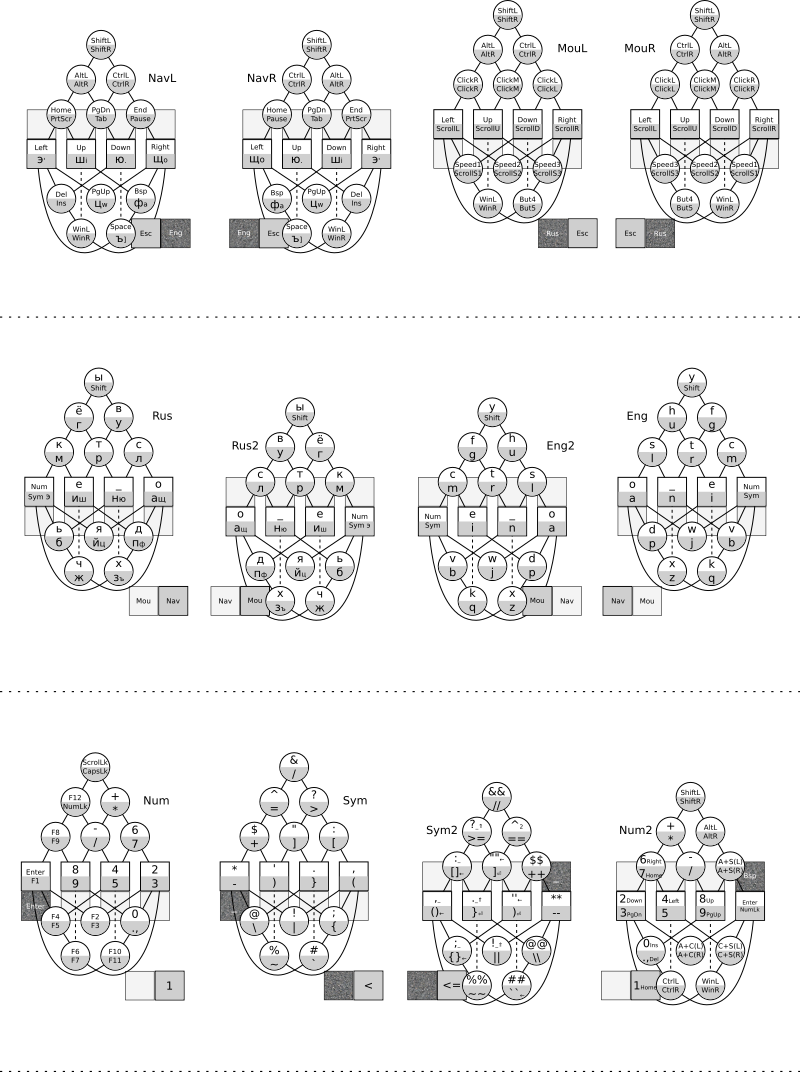
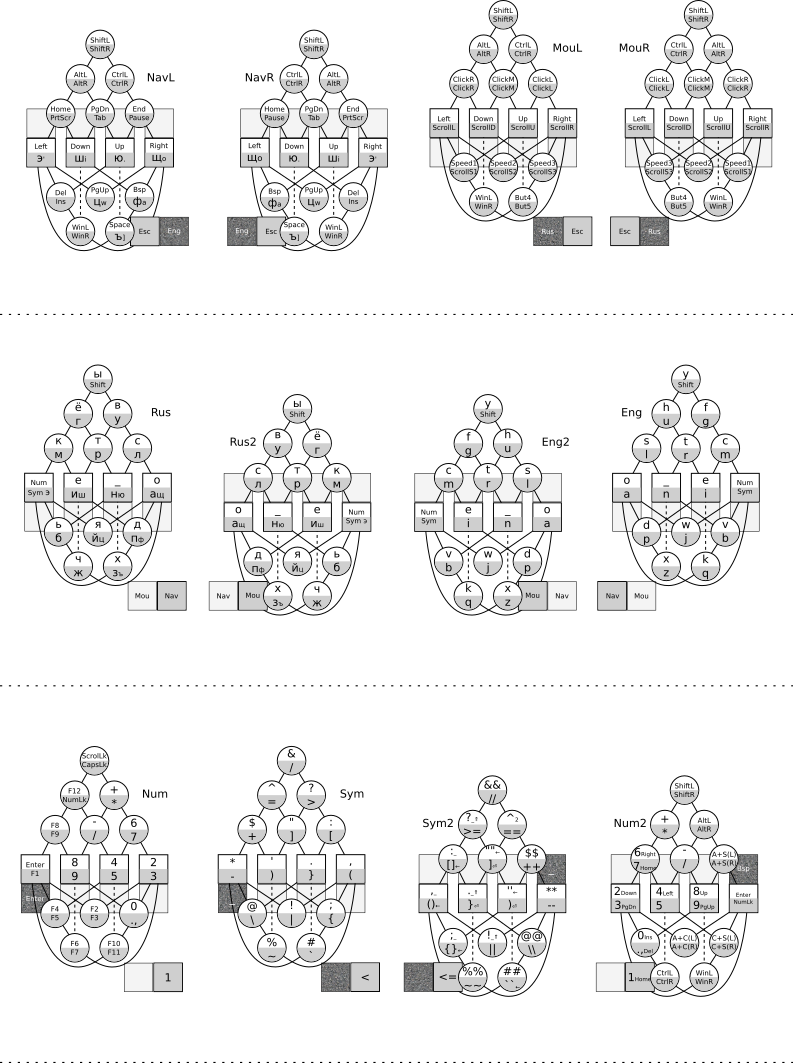
firmware 0.2

diff --git a/firmware/kladenets2.c b/firmware/kladenets2.c
@@ -1,7 +1,7 @@
 /*
 * Project: Chord keyboard Kladenets-2
-* Version: 0.1 (pre-pre alpha)
-* Date: 2019-06-08
+* Version: 0.2 (pre alpha)
+* Date: 2019-06-09
 * Author: Vladimir Romanovich <ibnteo@gmail.com>
 * License: MIT
 * https://github.com/ibnteo/kladenets
@@ -26,7 +26,7 @@ void Ports_Init() {
 	DDRC  |= 0b01110000; // C4,C5,C6
 	PORTC |= 0b01110000;
 	DDRD  |= 0b01100011; // D0,D1,D5, D6(Led)
-	PORTD |= 0b01100011; // LED Off
+	PORTD |= 0b01100011; // + LED Off
 
 	// Init rows (PullUp)
 	DDRB &= ~0b00010010; // B1,B4
@@ -226,15 +226,15 @@ void EVENT_USB_Device_StartOfFrame(void)
 #define KEYBOARD_MOD 0x00
 
 #define LAYER1 0
-#define LAYER_NUM1 1
-#define LAYER_NUM2 2
-#define LAYER_NAV 3
-#define LAYER_MOU 4
-#define LAYER_SYM1 5
-#define LAYER_SYM2 6
-#define LAYER2 7
+#define LAYER2 1
+#define LAYER_NUM1 2
+#define LAYER_NUM2 3
+#define LAYER_NAV 4
+#define LAYER_MOU 5
+#define LAYER_SYM1 6
+#define LAYER_SYM2 7
 
-uint8_t Layers[4][31] = {
+uint8_t Layers[5][31] = {
 	{ // Lay1
 		KEYBOARD_LAYER,				// 0000 1 Nav
 		HID_KEYBOARD_SC_O,			// 0001 0
@@ -267,6 +267,49 @@ uint8_t Layers[4][31] = {
 		HID_KEYBOARD_SC_G,			// 1110 1
 		HID_KEYBOARD_SC_Y,			// 1111 0
 		HID_KEYBOARD_SC_LEFT_SHIFT	// 1111 1 Shift
+	},
+	{ // Lay2
+		/*
+		qwertyuiop[]
+		йцукенгшщзхъ
+
+		asdfghjkl;'
+		фывапролджэ
+
+		zxcvbnm,./
+		ячсмитьбю.
+		*/
+		KEYBOARD_LAYER,												// 0000 1 Nav
+		HID_KEYBOARD_SC_J,											// 0001 0
+		HID_KEYBOARD_SC_F,											// 0001 1
+		HID_KEYBOARD_SC_SPACE,										// 0010 0
+		HID_KEYBOARD_SC_Y,											// 0010 1
+		HID_KEYBOARD_SC_C,											// 0011 0
+		HID_KEYBOARD_SC_K,											// 0011 1
+		HID_KEYBOARD_SC_T,											// 0100 0
+		HID_KEYBOARD_SC_B,											// 0100 1
+		HID_KEYBOARD_SC_L,											// 0101 0
+		HID_KEYBOARD_SC_G,											// 0101 1
+		HID_KEYBOARD_SC_N,											// 0110 0
+		HID_KEYBOARD_SC_H,											// 0110 1
+		HID_KEYBOARD_SC_D,											// 0111 0
+		HID_KEYBOARD_SC_E,											// 0111 1
+		KEYBOARD_LAYER,												// 1000 0 Num
+		KEYBOARD_LAYER,												// 1000 1 Sym
+		HID_KEYBOARD_SC_Z,											// 1001 0
+		HID_KEYBOARD_SC_Q,											// 1001 1
+		HID_KEYBOARD_SC_M,											// 1010 0
+		HID_KEYBOARD_SC_COMMA_AND_LESS_THAN_SIGN,				// 1010 1
+		HID_KEYBOARD_SC_X,											// 1011 0
+		HID_KEYBOARD_SC_SEMICOLON_AND_COLON,					// 1011 1
+		HID_KEYBOARD_SC_R,											// 1100 0
+		HID_KEYBOARD_SC_V,											// 1100 1
+		HID_KEYBOARD_SC_OPENING_BRACKET_AND_OPENING_BRACE,	// 1101 0
+		HID_KEYBOARD_SC_P,											// 1101 1
+		HID_KEYBOARD_SC_GRAVE_ACCENT_AND_TILDE,				// 1110 0
+		HID_KEYBOARD_SC_U,											// 1110 1
+		HID_KEYBOARD_SC_S,											// 1111 0
+		HID_KEYBOARD_SC_LEFT_SHIFT									// 1111 1 Shift
 	},
 	{ // Num1
 		HID_KEYBOARD_SC_1_AND_EXCLAMATION,				// 0000 1
@@ -338,11 +381,11 @@ uint8_t Layers[4][31] = {
 		HID_KEYBOARD_SC_ESCAPE,								// 0000 1
 		HID_KEYBOARD_SC_RIGHT_ARROW,						// 0001 0
 		HID_KEYBOARD_SC_Q,									// 0001 1
-		HID_KEYBOARD_SC_DOWN_ARROW,						// 0010 0
+		HID_KEYBOARD_SC_UP_ARROW,							// 0010 0
 		HID_KEYBOARD_SC_DOT_AND_GREATER_THAN_SIGN,	// 0010 1
 		HID_KEYBOARD_SC_END,									// 0011 0
 		HID_KEYBOARD_SC_PAUSE,								// 0011 1
-		HID_KEYBOARD_SC_UP_ARROW,							// 0100 0
+		HID_KEYBOARD_SC_DOWN_ARROW,						// 0100 0
 		HID_KEYBOARD_SC_I,									// 0100 1
 		HID_KEYBOARD_SC_BACKSPACE,							// 0101 0
 		HID_KEYBOARD_SC_A,									// 0101 1
@@ -371,7 +414,32 @@ uint8_t Layers[4][31] = {
 
 bool Chord_Growing[2] = {true, true};
 bool Chord_UpFirst[2] = {true, true};
-uint8_t Mods = 0;
+bool Chord_OnlyMods[2] = {true, true};
+uint8_t Mods0 = 0;
+uint8_t Mods1 = 0;
+uint8_t Layer_Current = LAYER1;
+
+uint8_t Check_Mods(uint8_t keyCode) {
+	uint8_t mods = 0;
+	if (keyCode == HID_KEYBOARD_SC_LEFT_CONTROL) {
+		mods = HID_KEYBOARD_MODIFIER_LEFTCTRL;
+	} else if (keyCode == HID_KEYBOARD_SC_RIGHT_CONTROL) {
+		mods = HID_KEYBOARD_MODIFIER_RIGHTCTRL;
+	} else if (keyCode == HID_KEYBOARD_SC_LEFT_SHIFT) {
+		mods = HID_KEYBOARD_MODIFIER_LEFTSHIFT;
+	} else if (keyCode == HID_KEYBOARD_SC_RIGHT_SHIFT) {
+		mods = HID_KEYBOARD_MODIFIER_RIGHTSHIFT;
+	} else if (keyCode == HID_KEYBOARD_SC_LEFT_ALT) {
+		mods = HID_KEYBOARD_MODIFIER_LEFTALT;
+	} else if (keyCode == HID_KEYBOARD_SC_RIGHT_ALT) {
+		mods = HID_KEYBOARD_MODIFIER_RIGHTALT;
+	} else if (keyCode == HID_KEYBOARD_SC_LEFT_GUI) {
+		mods = HID_KEYBOARD_MODIFIER_LEFTGUI;
+	} else if (keyCode == HID_KEYBOARD_SC_RIGHT_GUI) {
+		mods = HID_KEYBOARD_MODIFIER_RIGHTGUI;
+	}
+	return mods;
+}
 
 /** HID class driver callback function for the creation of HID reports to the host.
  *
@@ -396,14 +464,13 @@ bool CALLBACK_HID_Device_CreateHIDReport(USB_ClassInfo_HID_Device_t* const HIDIn
 	if (HIDInterfaceInfo == &Keyboard_HID_Interface) {
 		USB_KeyboardReport_Data_t* KeyboardReport = (USB_KeyboardReport_Data_t*)ReportData;
 
-		KeyboardReport->Modifier = Mods;
-
 		uint8_t chords[4] = {Chords[0], Chords[1], Chords[2], Chords[3]};
 	
 		uint8_t usedKeyCodes = 0;
 
+		LED_Switch(Mods0 | Mods1);
+
 		Keyboard_Scan();
-		uint8_t mods = 0;
 		bool setShift = false;
 		bool clearShift = false;
 
@@ -413,7 +480,7 @@ bool CALLBACK_HID_Device_CreateHIDReport(USB_ClassInfo_HID_Device_t* const HIDIn
 			if (Chords[s1] < chords[s1] || Chords[s2] < chords[s2]) {
 				if (Chord_Growing[side]) {
 					Chord_Growing[side] = false;
-					uint8_t layer = LAYER1;
+					uint8_t layer = Layer_Current;
 					if (chords[s2] == CHORD_NUM && (chords[s1] != CHORD_NAV || Chord_UpFirst[side])) {
 						layer = LAYER_NUM1;
 						if (chords[s1]) {
@@ -435,6 +502,9 @@ bool CALLBACK_HID_Device_CreateHIDReport(USB_ClassInfo_HID_Device_t* const HIDIn
 								setShift = true;
 							}
 							KeyboardReport->KeyCode[usedKeyCodes++] = keyCode;
+							if (keyCode == HID_KEYBOARD_SC_NUM_LOCK) {
+								//LED_Toggle();
+							}
 						} else {
 							KeyboardReport->KeyCode[usedKeyCodes++] = Layers[layer][15];
 						}
@@ -446,28 +516,13 @@ bool CALLBACK_HID_Device_CreateHIDReport(USB_ClassInfo_HID_Device_t* const HIDIn
 						} else {
 							KeyboardReport->KeyCode[usedKeyCodes++] = Layers[layer][15];
 						}
-					} else if (chords[s2] == CHORD_NAV) {
-						// Mouse
 					} else if (chords[s1] == CHORD_NAV) {
 						layer = LAYER_NAV;
 						if (chords[s2]) {
 							uint8_t keyCode = Layers[layer][chords[s2]-1];
-							if (keyCode == HID_KEYBOARD_SC_LEFT_CONTROL) {
-								KeyboardReport->Modifier |= HID_KEYBOARD_MODIFIER_LEFTCTRL;
-							} else if (keyCode == HID_KEYBOARD_SC_RIGHT_CONTROL) {
-								KeyboardReport->Modifier |= HID_KEYBOARD_MODIFIER_RIGHTCTRL;
-							} else if (keyCode == HID_KEYBOARD_SC_LEFT_SHIFT) {
-								KeyboardReport->Modifier |= HID_KEYBOARD_MODIFIER_LEFTSHIFT;
-							} else if (keyCode == HID_KEYBOARD_SC_RIGHT_SHIFT) {
-								KeyboardReport->Modifier |= HID_KEYBOARD_MODIFIER_RIGHTSHIFT;
-							} else if (keyCode == HID_KEYBOARD_SC_LEFT_ALT) {
-								KeyboardReport->Modifier |= HID_KEYBOARD_MODIFIER_LEFTALT;
-							} else if (keyCode == HID_KEYBOARD_SC_RIGHT_ALT) {
-								KeyboardReport->Modifier |= HID_KEYBOARD_MODIFIER_RIGHTALT;
-							} else if (keyCode == HID_KEYBOARD_SC_LEFT_GUI) {
-								KeyboardReport->Modifier |= HID_KEYBOARD_MODIFIER_LEFTGUI;
-							} else if (keyCode == HID_KEYBOARD_SC_RIGHT_GUI) {
-								KeyboardReport->Modifier |= HID_KEYBOARD_MODIFIER_RIGHTGUI;
+							uint8_t mods = Check_Mods(keyCode);
+							if (mods) {
+								Mods0 ^= mods;
 							} else {
 								if (keyCode == HID_KEYBOARD_SC_RIGHT_ARROW && s1) {
 									keyCode = HID_KEYBOARD_SC_LEFT_ARROW;
@@ -481,31 +536,74 @@ bool CALLBACK_HID_Device_CreateHIDReport(USB_ClassInfo_HID_Device_t* const HIDIn
 								KeyboardReport->KeyCode[usedKeyCodes++] = keyCode;
 							}
 						} else {
-							// TODO: set Rus Layer
+							if (Layer_Current != LAYER1) {
+								//Mods0 = HID_KEYBOARD_MODIFIER_LEFTSHIFT | HID_KEYBOARD_MODIFIER_LEFTALT;
+								KeyboardReport->Modifier = HID_KEYBOARD_MODIFIER_LEFTSHIFT | HID_KEYBOARD_MODIFIER_LEFTALT;
+							}
+							Layer_Current = LAYER1;
+							//LED_Off();
+						}
+					} else if (chords[s2] == CHORD_NAV) {
+						layer = LAYER_MOU;
+						if (chords[s1]) {
+							// TODO: Mouse layer
+						} else {
+							if (Layer_Current != LAYER2) {
+								//Mods0 = HID_KEYBOARD_MODIFIER_LEFTSHIFT | HID_KEYBOARD_MODIFIER_LEFTALT;
+								KeyboardReport->Modifier = HID_KEYBOARD_MODIFIER_LEFTSHIFT | HID_KEYBOARD_MODIFIER_LEFTALT;
+							}
+							Layer_Current = LAYER2;
+							//LED_On();
 						}
 					} else {
 						if (chords[s1]) {
 							uint8_t keyCode = Layers[layer][chords[s1]-1];
-							KeyboardReport->KeyCode[usedKeyCodes++] = keyCode;
+							uint8_t mods = Check_Mods(keyCode);
+							if (mods) {
+								Mods1 ^= mods;
+							} else {
+								KeyboardReport->KeyCode[usedKeyCodes++] = keyCode;
+							}
 						}
 						if (chords[s2]) {
 							uint8_t keyCode = Layers[layer][chords[s2]-1];
-							KeyboardReport->KeyCode[usedKeyCodes++] = keyCode;
+							uint8_t mods = Check_Mods(keyCode);
+							if (mods) {
+								Mods1 ^= mods;
+							} else {
+								KeyboardReport->KeyCode[usedKeyCodes++] = keyCode;
+							}
  						}
+					}
+					if (usedKeyCodes) {
+						Chord_OnlyMods[side] = false;
 					}
 				}
 			} else if (Chords[s1] > chords[s1] || Chords[s2] > chords[s2]) {
 				Chord_Growing[side] = true;
 				if (chords[s1]) Chord_UpFirst[side] = false;
 				if (chords[s2]) Chord_UpFirst[side] = true;
+			} else if (! (Chords[s1] || Chords[s2])) {
+				if (Chord_OnlyMods[side] && Mods0) {
+					Mods1 = Mods0;
+				}
+				Chord_OnlyMods[side] = true;
 			}
 		}
 
+		KeyboardReport->Modifier |= Mods0 | Mods1;
 		if (clearShift) {
 			KeyboardReport->Modifier &= ~(HID_KEYBOARD_MODIFIER_LEFTSHIFT | HID_KEYBOARD_MODIFIER_RIGHTSHIFT);
 		}
 		if (setShift && !(KeyboardReport->Modifier & (HID_KEYBOARD_MODIFIER_LEFTSHIFT | HID_KEYBOARD_MODIFIER_RIGHTSHIFT))) {
 			KeyboardReport->Modifier |= HID_KEYBOARD_MODIFIER_LEFTSHIFT;
+		}
+
+		if (! (Chords[0] || Chords[1] || Chords[2] || Chords[3])) {
+			Mods0 = 0;
+		}
+		if (usedKeyCodes) {
+			Mods1 = 0;
 		}
 
 		*ReportSize = sizeof(USB_KeyboardReport_Data_t);
@@ -551,17 +649,20 @@ void CALLBACK_HID_Device_ProcessHIDReport(USB_ClassInfo_HID_Device_t* const HIDI
 {
 	if (HIDInterfaceInfo == &Keyboard_HID_Interface)
 	{
-		/*uint8_t  LEDMask   = LEDS_NO_LEDS;
 		uint8_t* LEDReport = (uint8_t*)ReportData;
+
+		if (*LEDReport & HID_KEYBOARD_LED_CAPSLOCK) {
+		  LED_On();
+		}
+
+		if (*LEDReport & HID_KEYBOARD_LED_SCROLLLOCK) {
+		  LED_On();
+		}
+
+		/*uint8_t  LEDMask   = LEDS_NO_LEDS;
 
 		if (*LEDReport & HID_KEYBOARD_LED_NUMLOCK)
 		  LEDMask |= LEDS_LED1;
-
-		if (*LEDReport & HID_KEYBOARD_LED_CAPSLOCK)
-		  LEDMask |= LEDS_LED3;
-
-		if (*LEDReport & HID_KEYBOARD_LED_SCROLLLOCK)
-		  LEDMask |= LEDS_LED4;
 
 		LEDs_SetAllLEDs(LEDMask);*/
 	}
